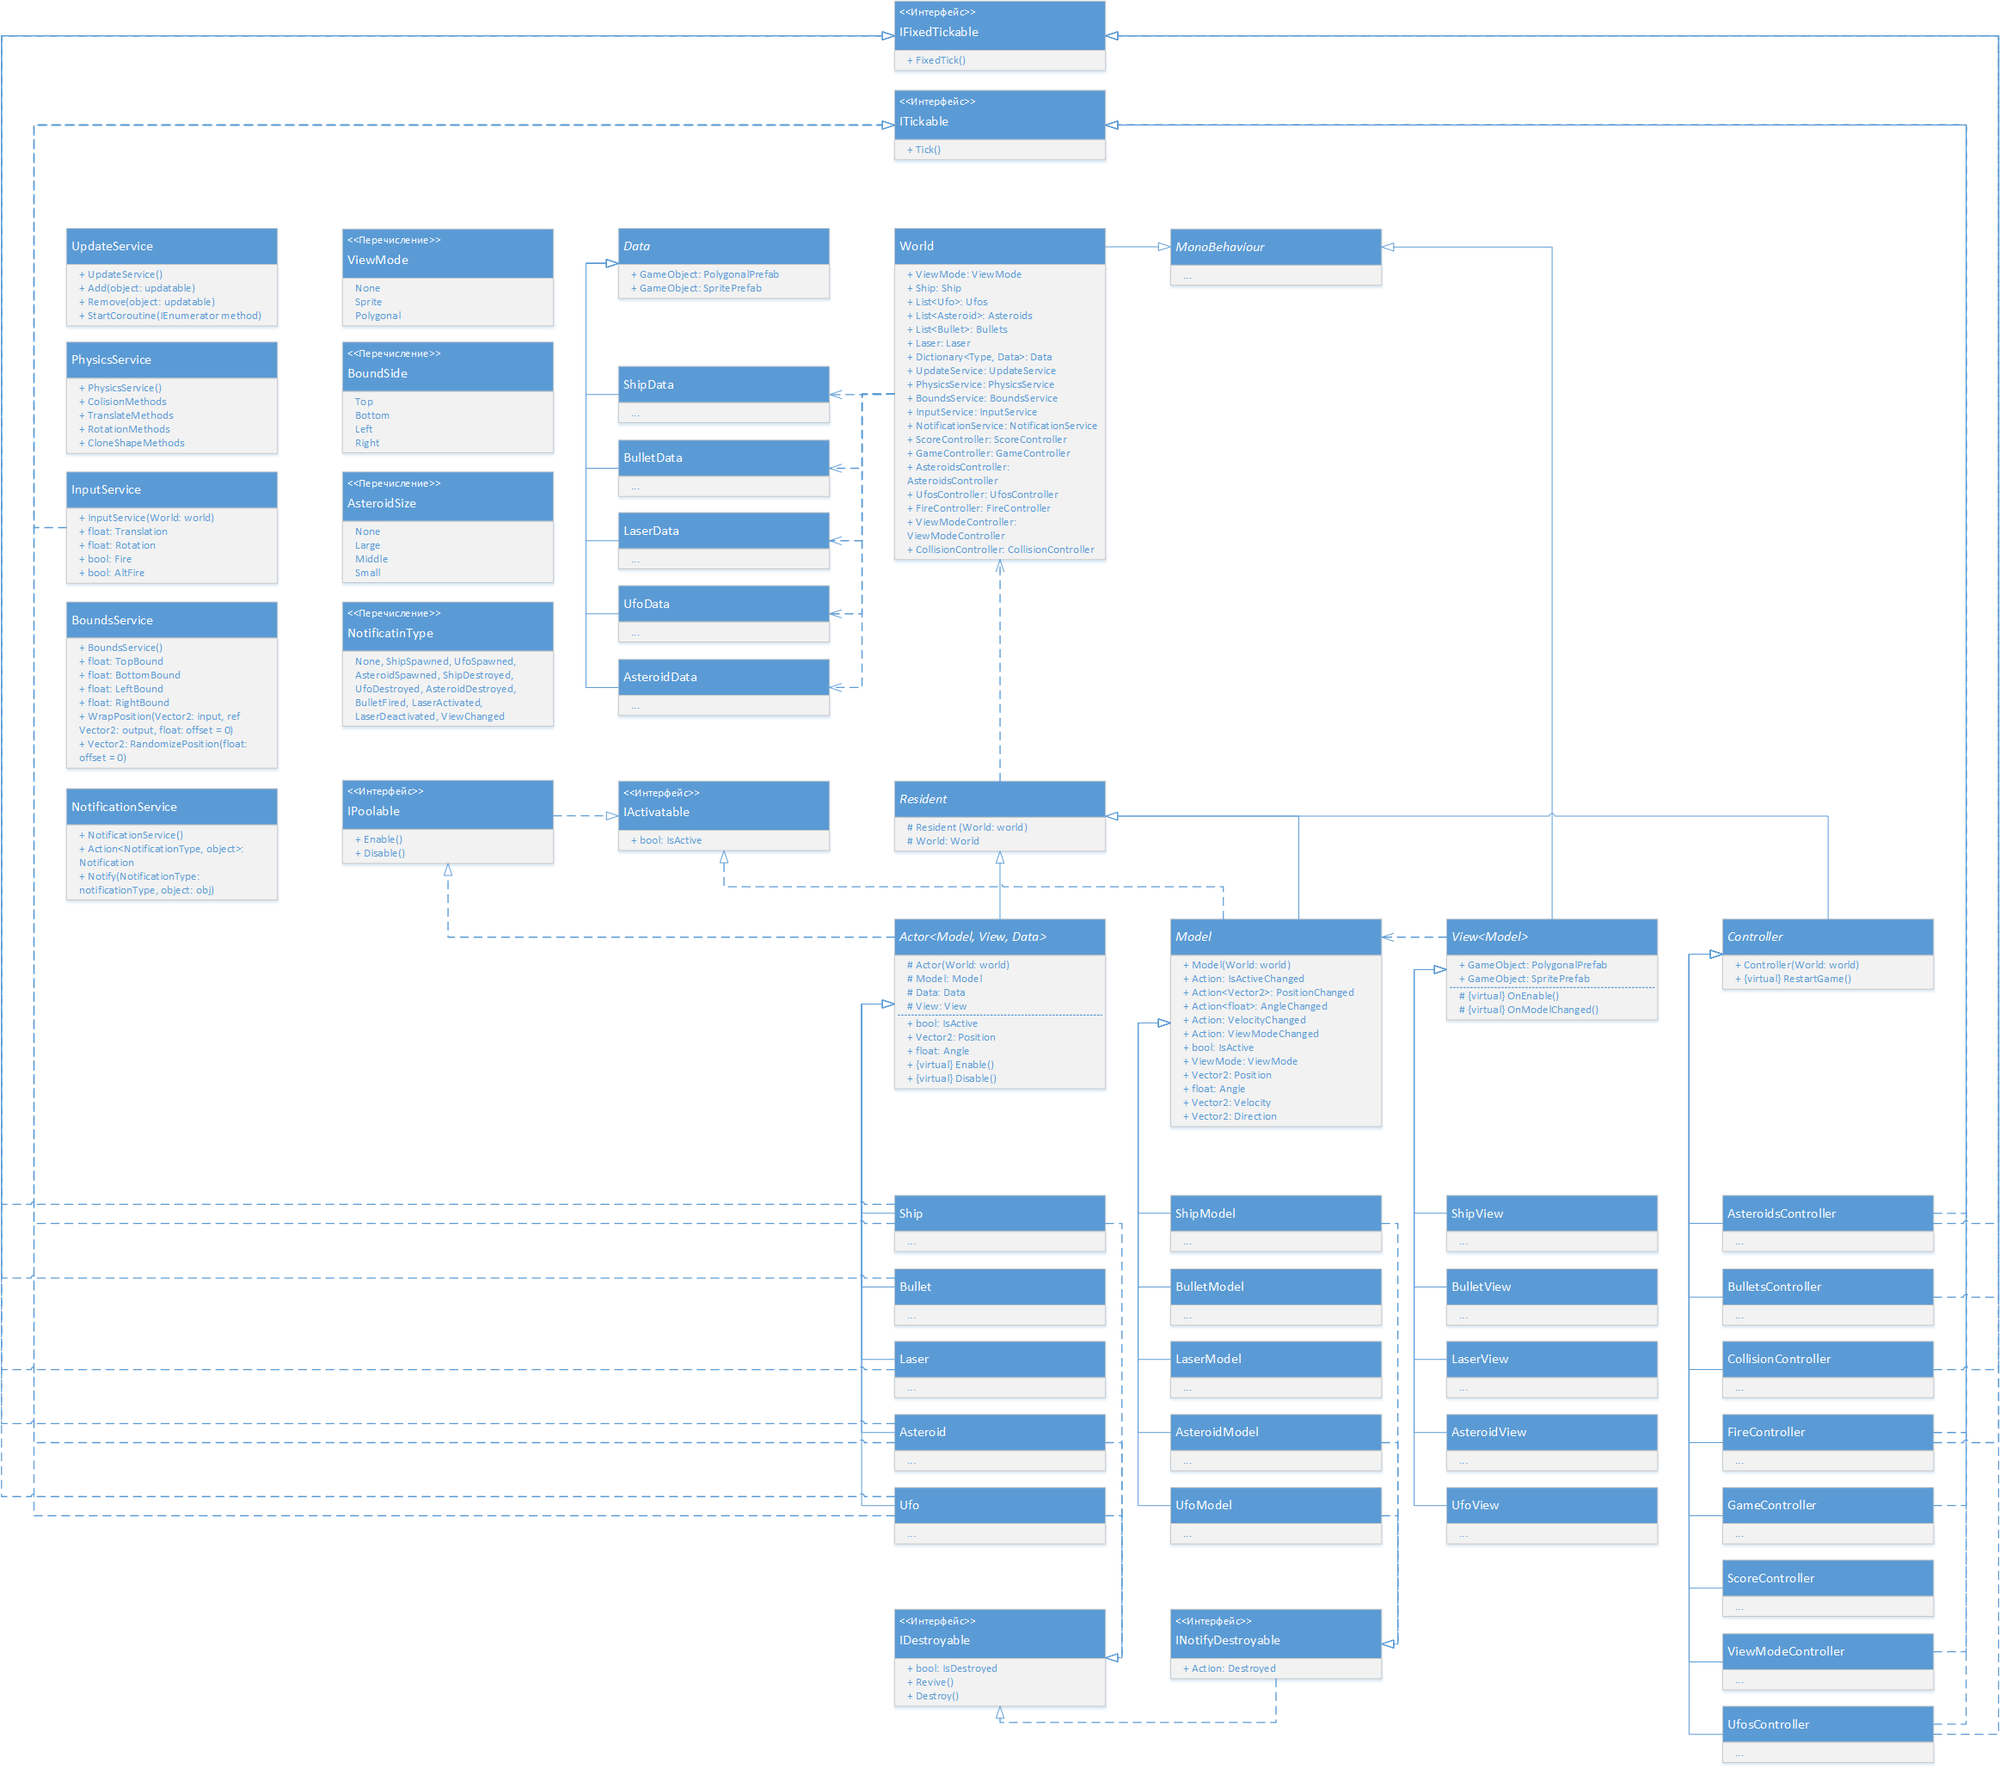
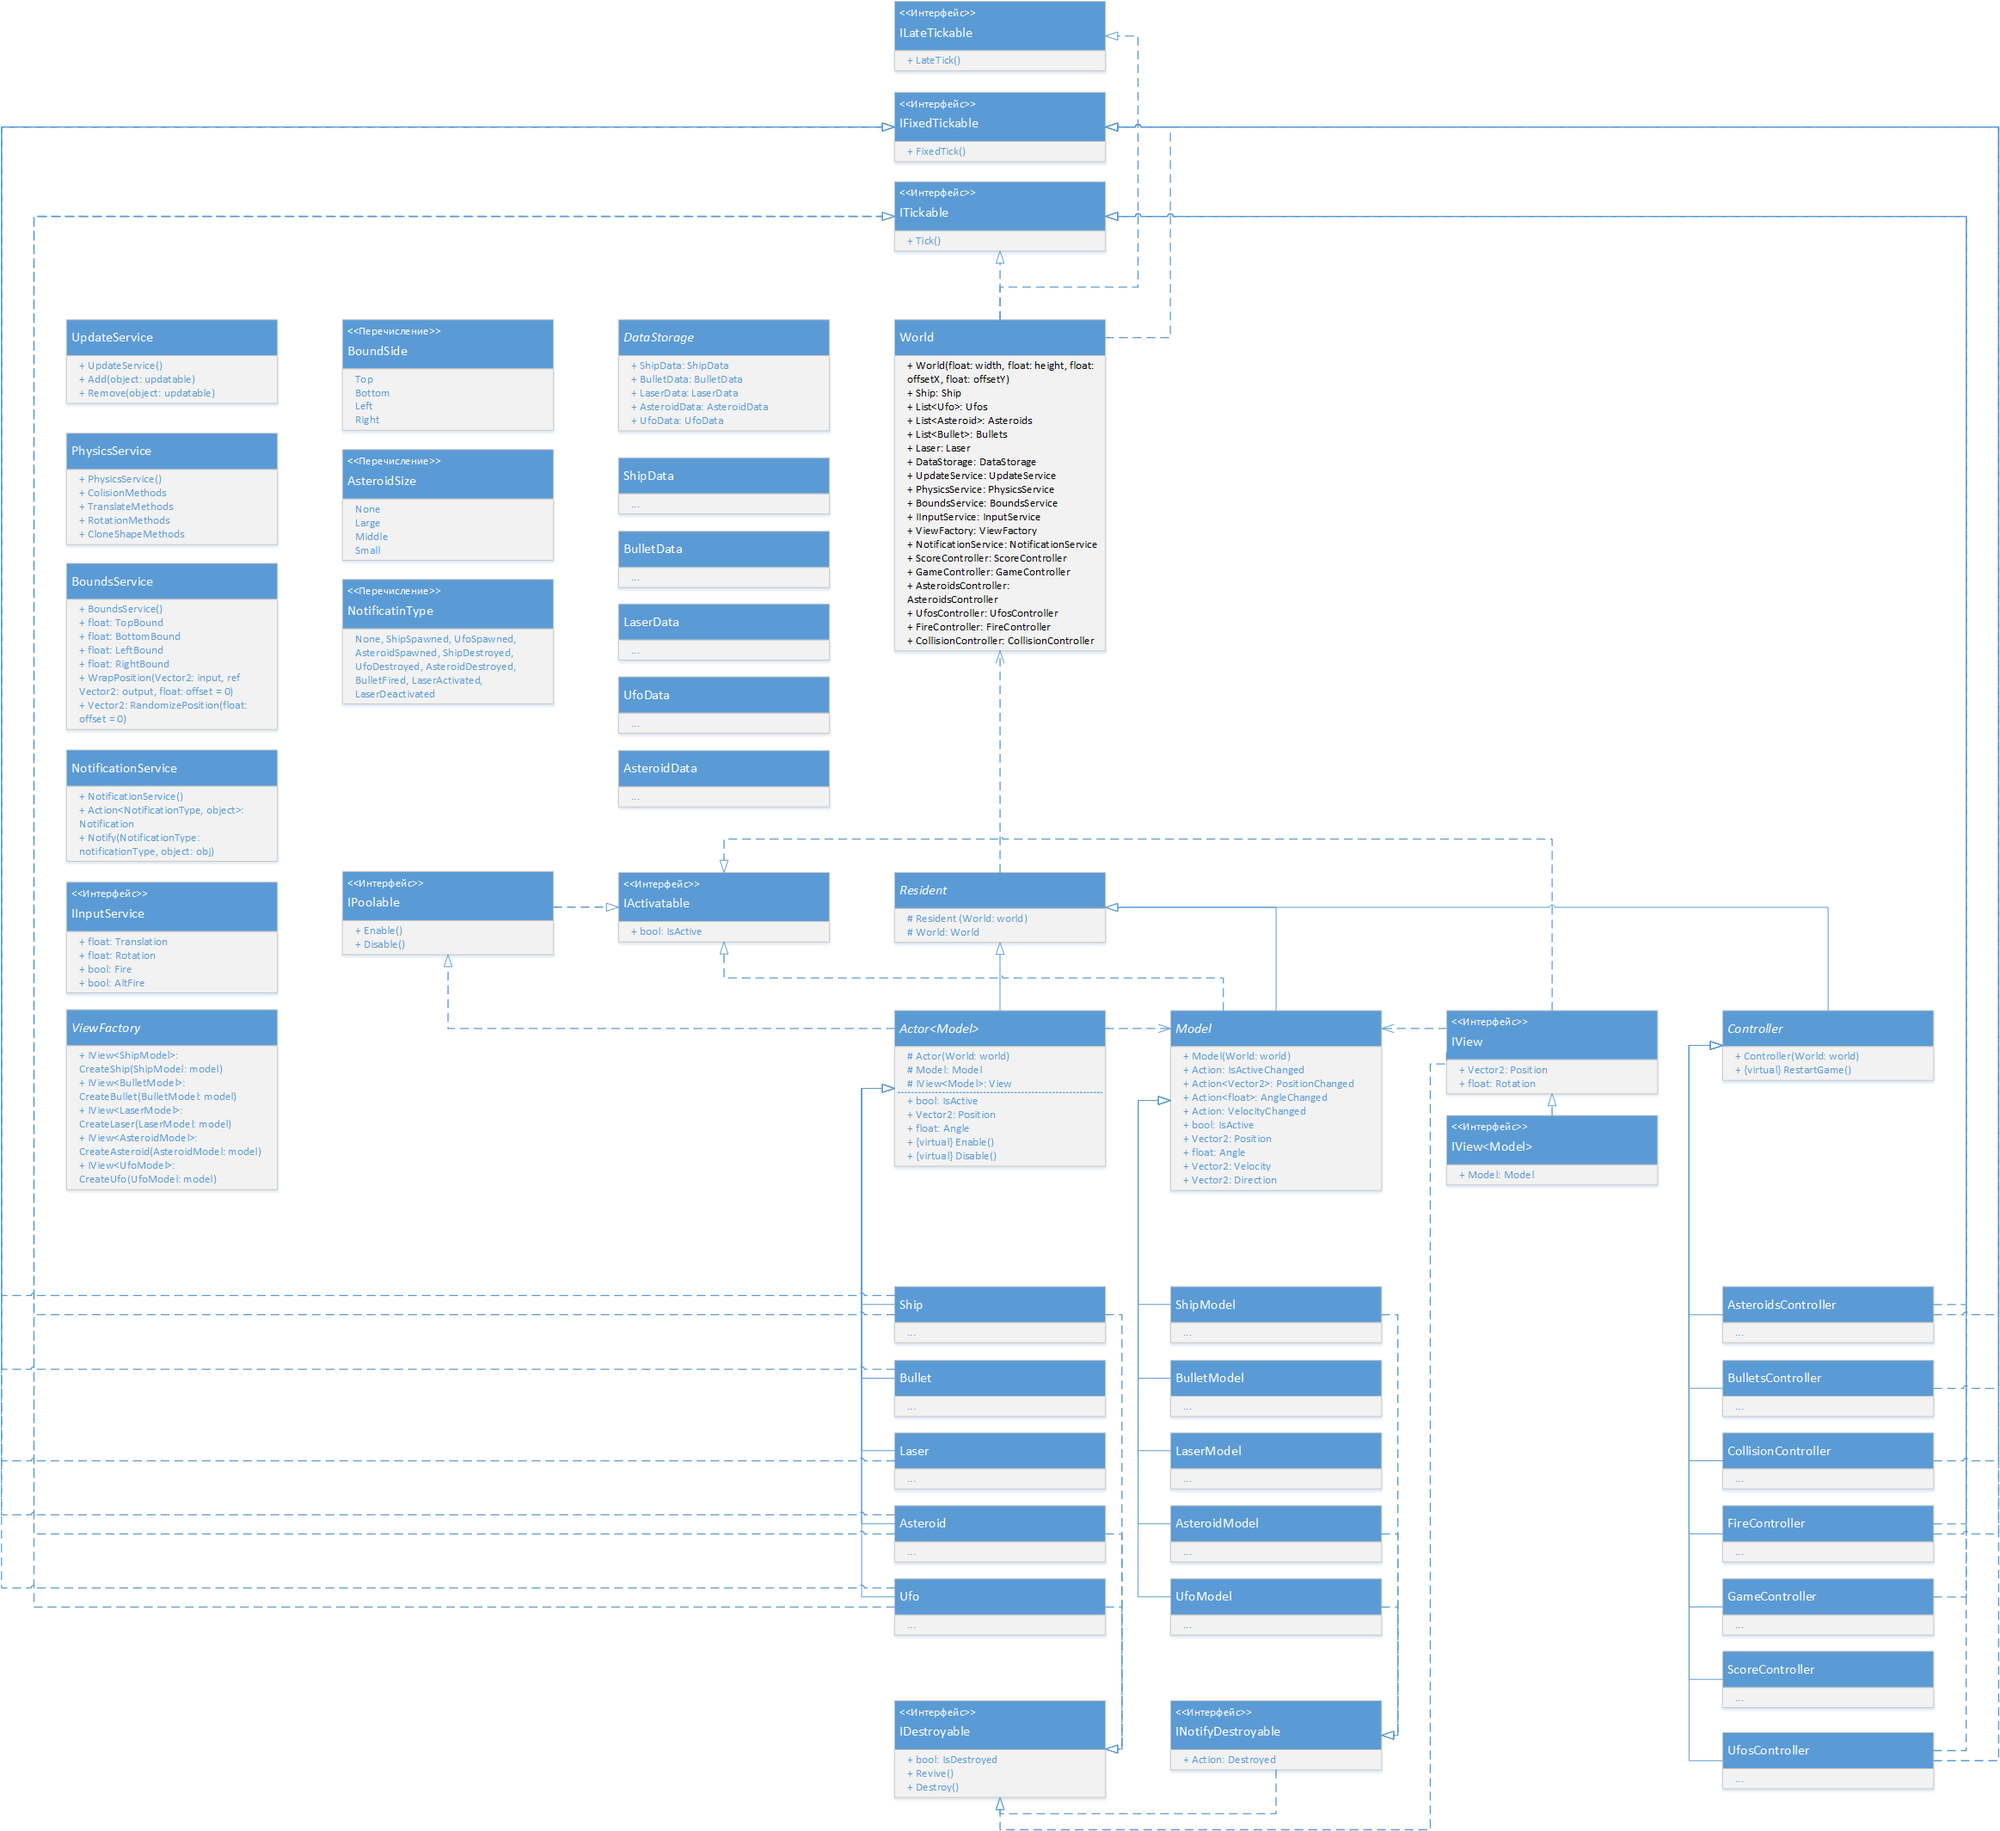
Replased diagramm

Changed region(s): [[0.3095, 0.0, 0.9905, 1.0], [0.031, 0.1245, 0.2786, 0.6534], [0.9905, 0.0311, 1.0, 0.0622]]

diff --git a/Assets/Scripts/AsteroidsCore/Enums/NotificationType.cs b/Assets/Scripts/AsteroidsCore/Enums/NotificationType.cs
@@ -11,7 +11,6 @@
         AsteroidDestroyed,
         BulletFired,
         LaserActivated,
-        LaserDeactivated,
-        ViewModeChanged
+        LaserDeactivated
     }
 }
